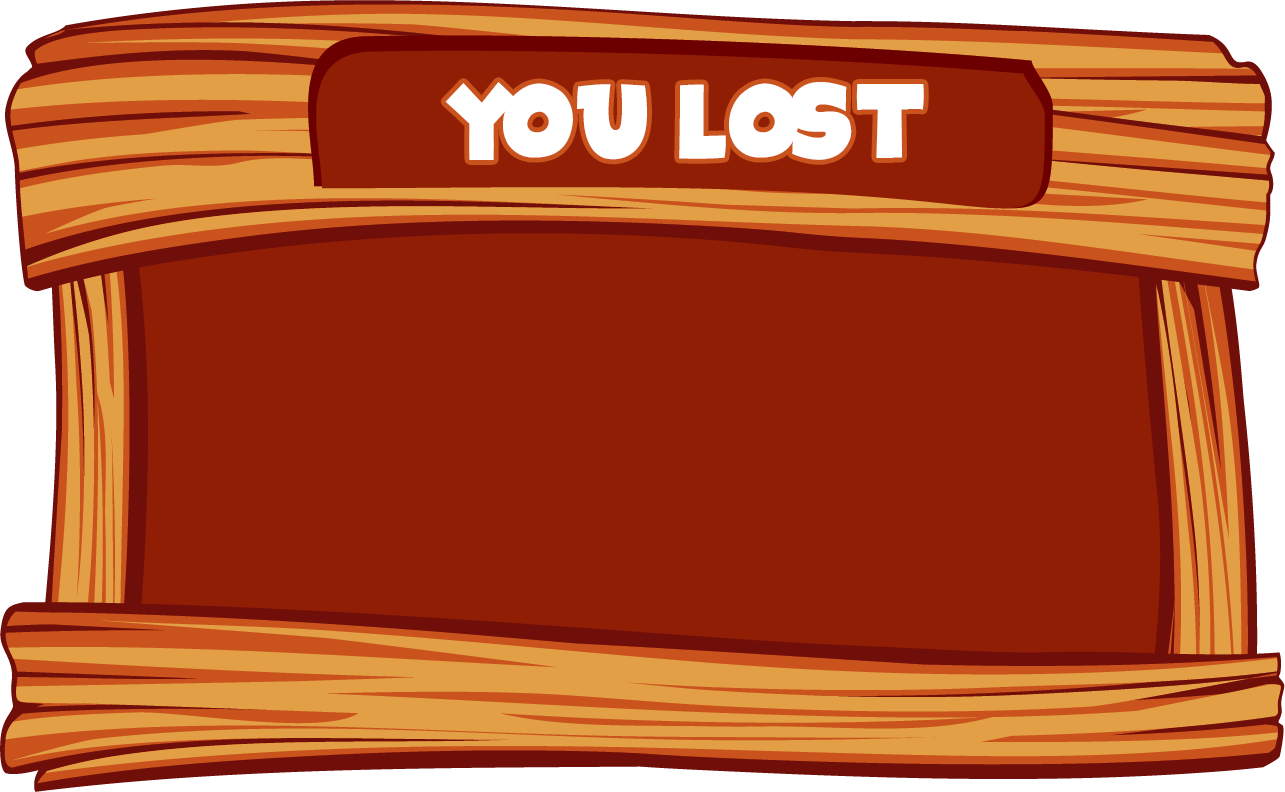
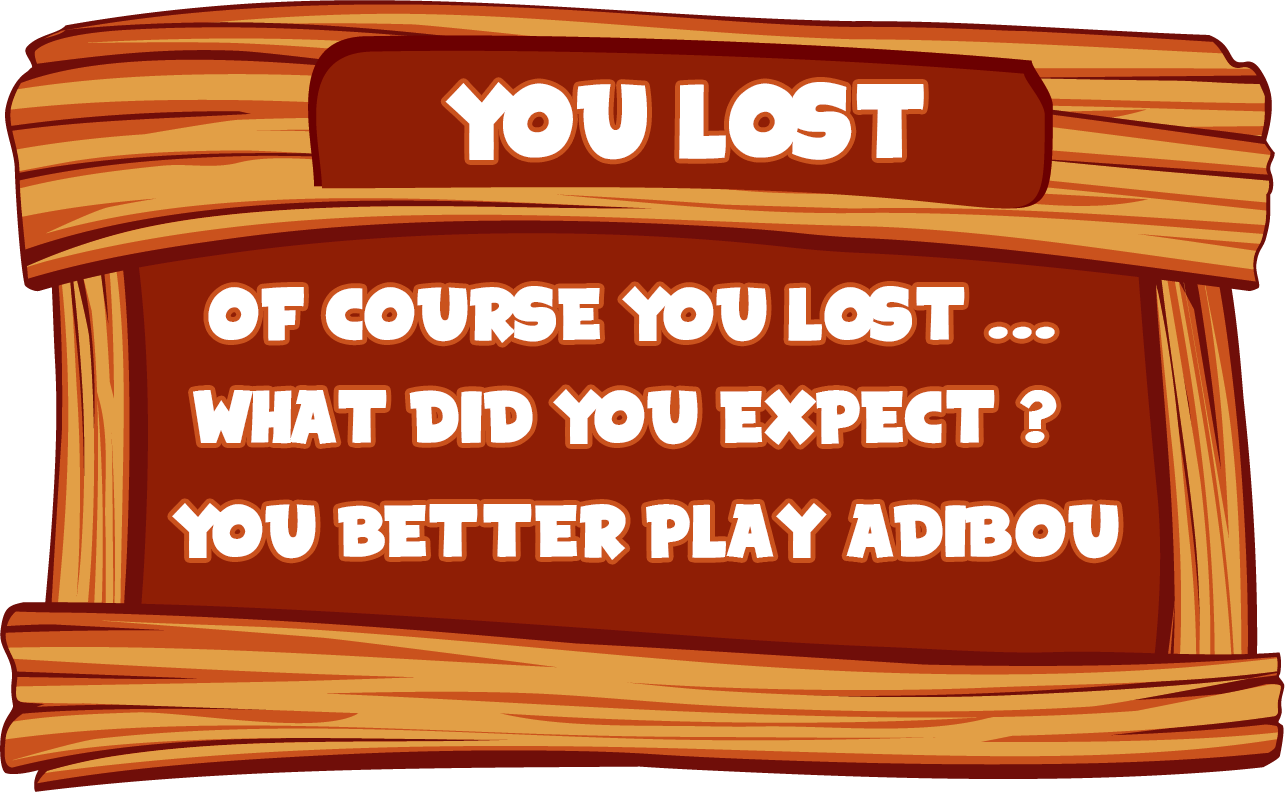
EndInterface appear when you lose or win.

Changed region(s): [[0.1245, 0.6061, 0.8716, 0.7273], [0.1556, 0.3333, 0.8405, 0.4545], [0.1245, 0.4848, 0.8405, 0.5758]]

diff --git a/src/warcraftTD/WorldGame.java b/src/warcraftTD/WorldGame.java
@@ -1,5 +1,6 @@
 package warcraftTD;
 
+import warcraftTD.hud.InterfaceEndGame;
 import warcraftTD.hud.InterfaceGame;
 import warcraftTD.hud.InterfacePause;
 import warcraftTD.hud.MainMenu;
@@ -37,6 +38,7 @@ public class WorldGame extends World {
   // L'interface du jeu
   private InterfaceGame HUD;
   private InterfacePause hudPause;
+  private InterfaceEndGame hudEnd;
 
   // le porte monnaie du joueur
   private Wallet player_wallet;
@@ -64,6 +66,12 @@ public class WorldGame extends World {
   List<Wave> waves;
 
   String musicPath;
+
+  private StateGame currentStateGame;
+
+  private enum StateGame{
+    Game, Pause, End
+  }
 
   /**
    * Initialisation du monde en fonction de la largeur, la hauteur et le nombre de cases données
@@ -165,6 +173,7 @@ public class WorldGame extends World {
     this.needKeyRelease = false;
     this.pause = false;
     this.initTerrain();
+    this.currentStateGame = StateGame.Game;
   }
 
   public void initTerrain(){
@@ -369,8 +378,17 @@ public class WorldGame extends World {
    */
   @Override
   public void drawInfos() {
-    if(this.pause) this.hudPause.updateInterface(StdDraw.mouseX(), StdDraw.mouseY(), this.getDelta_time());
-    this.HUD.updateInterface(StdDraw.mouseX(), StdDraw.mouseY(), this.getDelta_time());
+    switch(currentStateGame){
+      case Game:
+        this.HUD.updateInterface(StdDraw.mouseX(), StdDraw.mouseY(), this.getDelta_time());
+        break;
+      case Pause:
+        this.hudPause.updateInterface(StdDraw.mouseX(), StdDraw.mouseY(), this.getDelta_time());
+        break;
+      case End:
+        this.hudEnd.updateInterface(StdDraw.mouseX(), StdDraw.mouseY(), this.getDelta_time());
+        break;
+    }
   }
 
   /**
@@ -445,8 +463,7 @@ public class WorldGame extends World {
     }
   }
 
-
-  public void updateWave() {
+  public void updateWave() throws UnsupportedAudioFileException, IOException, LineUnavailableException {
     if (this.waves.size() > 0) {
       Wave currentWave = this.waves.get(0);
       if (currentWave.getCurrentTimeBeforeStartingSpawn() > 0) {
@@ -473,19 +490,23 @@ public class WorldGame extends World {
    * @return les points de vie restants du joueur
    */
   @Override
-  public int update() {
-    if(this.pause){
-      StdDraw.picture(0.5, 0.5, "images/pauseTemporaryFile.png", 1.0, 1.0);
-      StdDraw.picture(0.5, 0.5, "images/blurtest.png", 1.0, 1.0);
-      this.drawInfos();
-      return this.life;
+  public int update() throws UnsupportedAudioFileException, IOException, LineUnavailableException {
+    switch(currentStateGame){
+      case Game:
+        this.drawLevel();
+        this.updateWave();
+        this.updateMonsters();
+        this.updateTowers();
+        this.drawMouse();
+        this.drawInfos();
+        break;
+      case Pause:
+      case End:
+        StdDraw.picture(0.5, 0.5, "images/pauseTemporaryFile.png", 1.0, 1.0);
+        StdDraw.picture(0.5, 0.5, "images/blurtest.png", 1.0, 1.0);
+        this.drawInfos();
+        break;
     }
-    this.drawLevel();
-    this.updateWave();
-    this.updateMonsters();
-    this.updateTowers();
-    this.drawMouse();
-    this.drawInfos();
     return this.life;
   }
 
@@ -505,9 +526,13 @@ public class WorldGame extends World {
     Position p = new Position(normalizedX, normalizedY);
     Position mousep = new Position((int) ((normalizedX * this.getNbSquareX())), (int) ((normalizedY * this.getNbSquareY())));
 
-    if(this.pause){
-      this.hudPause.onClick(x,y, mouseButton);
-      return;
+    switch (currentStateGame) {
+      case Pause:
+        this.hudPause.onClick(x,y, mouseButton);
+        return;
+      case End:
+        this.hudEnd.onClick(x, y, mouseButton);
+        break;
     }
 
     if (this.HUD.onClick(x, y, mouseButton)) return;
@@ -554,20 +579,20 @@ public class WorldGame extends World {
 
   public void pressingEscape() throws UnsupportedAudioFileException, IOException, LineUnavailableException {
     this.needKeyRelease = true;
-    this.pause = !this.pause;
+    if(this.currentStateGame == StateGame.Game){
 
-    if(this.pause){
+       this.currentStateGame = StateGame.Pause;
+
       if(this.hudPause==null) this.hudPause = new InterfacePause(this);
       this.hudPause.getBox().showBox(0.8,0.0,1.5);
       StdDraw.save("images/pauseTemporaryFile.png");
       this.pauseBackground = StdDraw.pictureNget(0.5,0.5,"images/pauseTemporaryFile.png",1.0,1.0);
-    } else {
-      exitPause();
-    }
+
+    } else exitPause();
   }
 
   public void exitPause(){
-    this.pause = false;
+    this.currentStateGame = StateGame.Game;
     if(this.pauseBackground!=null) this.pauseBackground.flush();
   }
 
@@ -587,6 +612,14 @@ public class WorldGame extends World {
     super.run();
   }
 
+  public void endGame(boolean win) throws UnsupportedAudioFileException, IOException, LineUnavailableException {
+    StdDraw.save("images/pauseTemporaryFile.png");
+    this.pauseBackground = StdDraw.pictureNget(0.5,0.5,"images/pauseTemporaryFile.png",1.0,1.0);
+    this.hudEnd = new InterfaceEndGame(this, win);
+    this.hudEnd.getBox().showBox(0.8,0.0,1.0);
+    this.currentStateGame = StateGame.End;
+  }
+
   @Override
   public void endWorld() throws UnsupportedAudioFileException, IOException, LineUnavailableException {
     if(this.levelBackground!=null) this.levelBackground.flush();
@@ -599,6 +632,10 @@ public class WorldGame extends World {
     if (StdDraw.isKeyPressed(27)) {
       if(!needKeyRelease) pressingEscape();
     } else if(this.needKeyRelease) this.needKeyRelease = false;
+    if(currentStateGame == StateGame.Game){
+      if(this.life<=0) endGame(false);
+      if(this.waves.size()==0) endGame(this.life>0);
+    }
   }
 
   public List<Monster> getMonsters() {

diff --git a/src/warcraftTD/hud/InterfaceEndGame.java b/src/warcraftTD/hud/InterfaceEndGame.java
@@ -1,0 +1,40 @@
+package warcraftTD.hud;
+
+import warcraftTD.WorldGame;
+import warcraftTD.utils.Position;
+
+import javax.sound.sampled.LineUnavailableException;
+import javax.sound.sampled.UnsupportedAudioFileException;
+import java.io.IOException;
+
+public class InterfaceEndGame extends Interface{
+    private HorizontalGroupBox box;
+    private boolean win;
+    private WorldGame world;
+
+    public HorizontalGroupBox getBox() {
+        return this.box;
+    }
+
+    public InterfaceEndGame(WorldGame world, boolean win) throws UnsupportedAudioFileException, IOException, LineUnavailableException {
+        this.world = world;
+        this.win = win;
+
+        if(win) this.box = new HorizontalGroupBox(new Position(0.5,0.5),0.45,0.4,this, "images/wonTab.png");
+        else this.box = new HorizontalGroupBox(new Position(0.5,0.5),0.45,0.4,this, "images/lostTab.png");
+
+        this.getListElements().add(this.box);
+        Button btn = new Button(new Position(0.5,0.1),0.22,0.1,"images/quitToMenuButton.png","images/quitToMenuButton_hover.png","quit",this);
+        this.box.addHUDElement(btn);
+    }
+
+    @Override
+    public void makeAction(String action, Element from) throws IOException, LineUnavailableException, UnsupportedAudioFileException {
+        switch (action){
+            case "quit":
+                this.world.setEnd(true);
+                this.world.setNeedReleaseMouse(true);
+                break;
+        }
+    }
+}

diff --git a/src/warcraftTD/World.java b/src/warcraftTD/World.java
@@ -136,7 +136,7 @@ public abstract class World {
 
     public abstract void drawPath();
 
-    public abstract int update();
+    public abstract int update() throws UnsupportedAudioFileException, IOException, LineUnavailableException;
 
     public abstract void mouseClick(double x, double y, int mouseButton) throws UnsupportedAudioFileException, IOException, LineUnavailableException;
 
